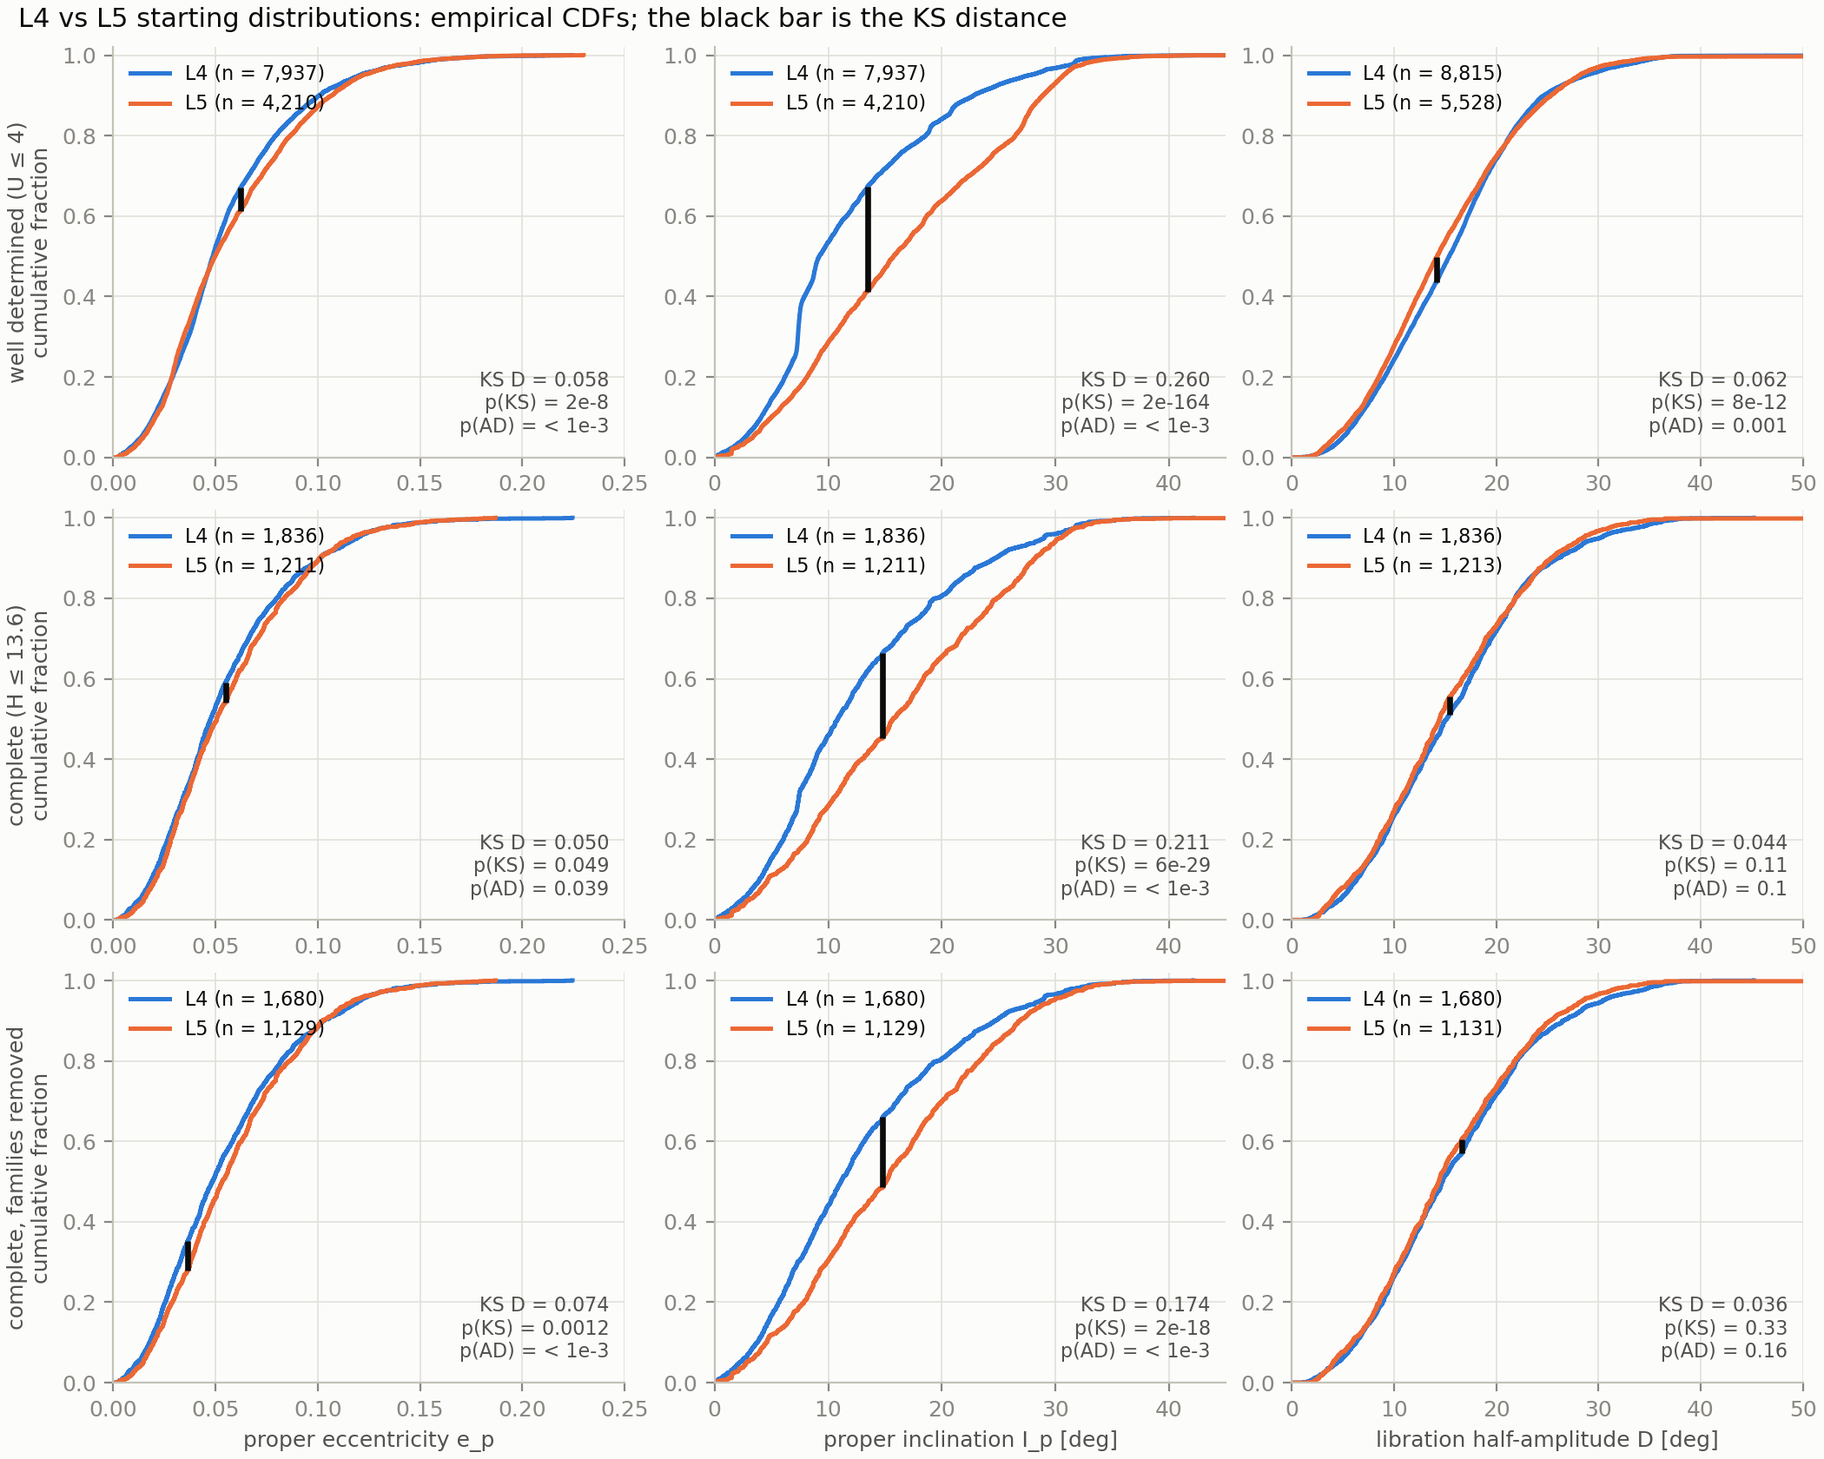
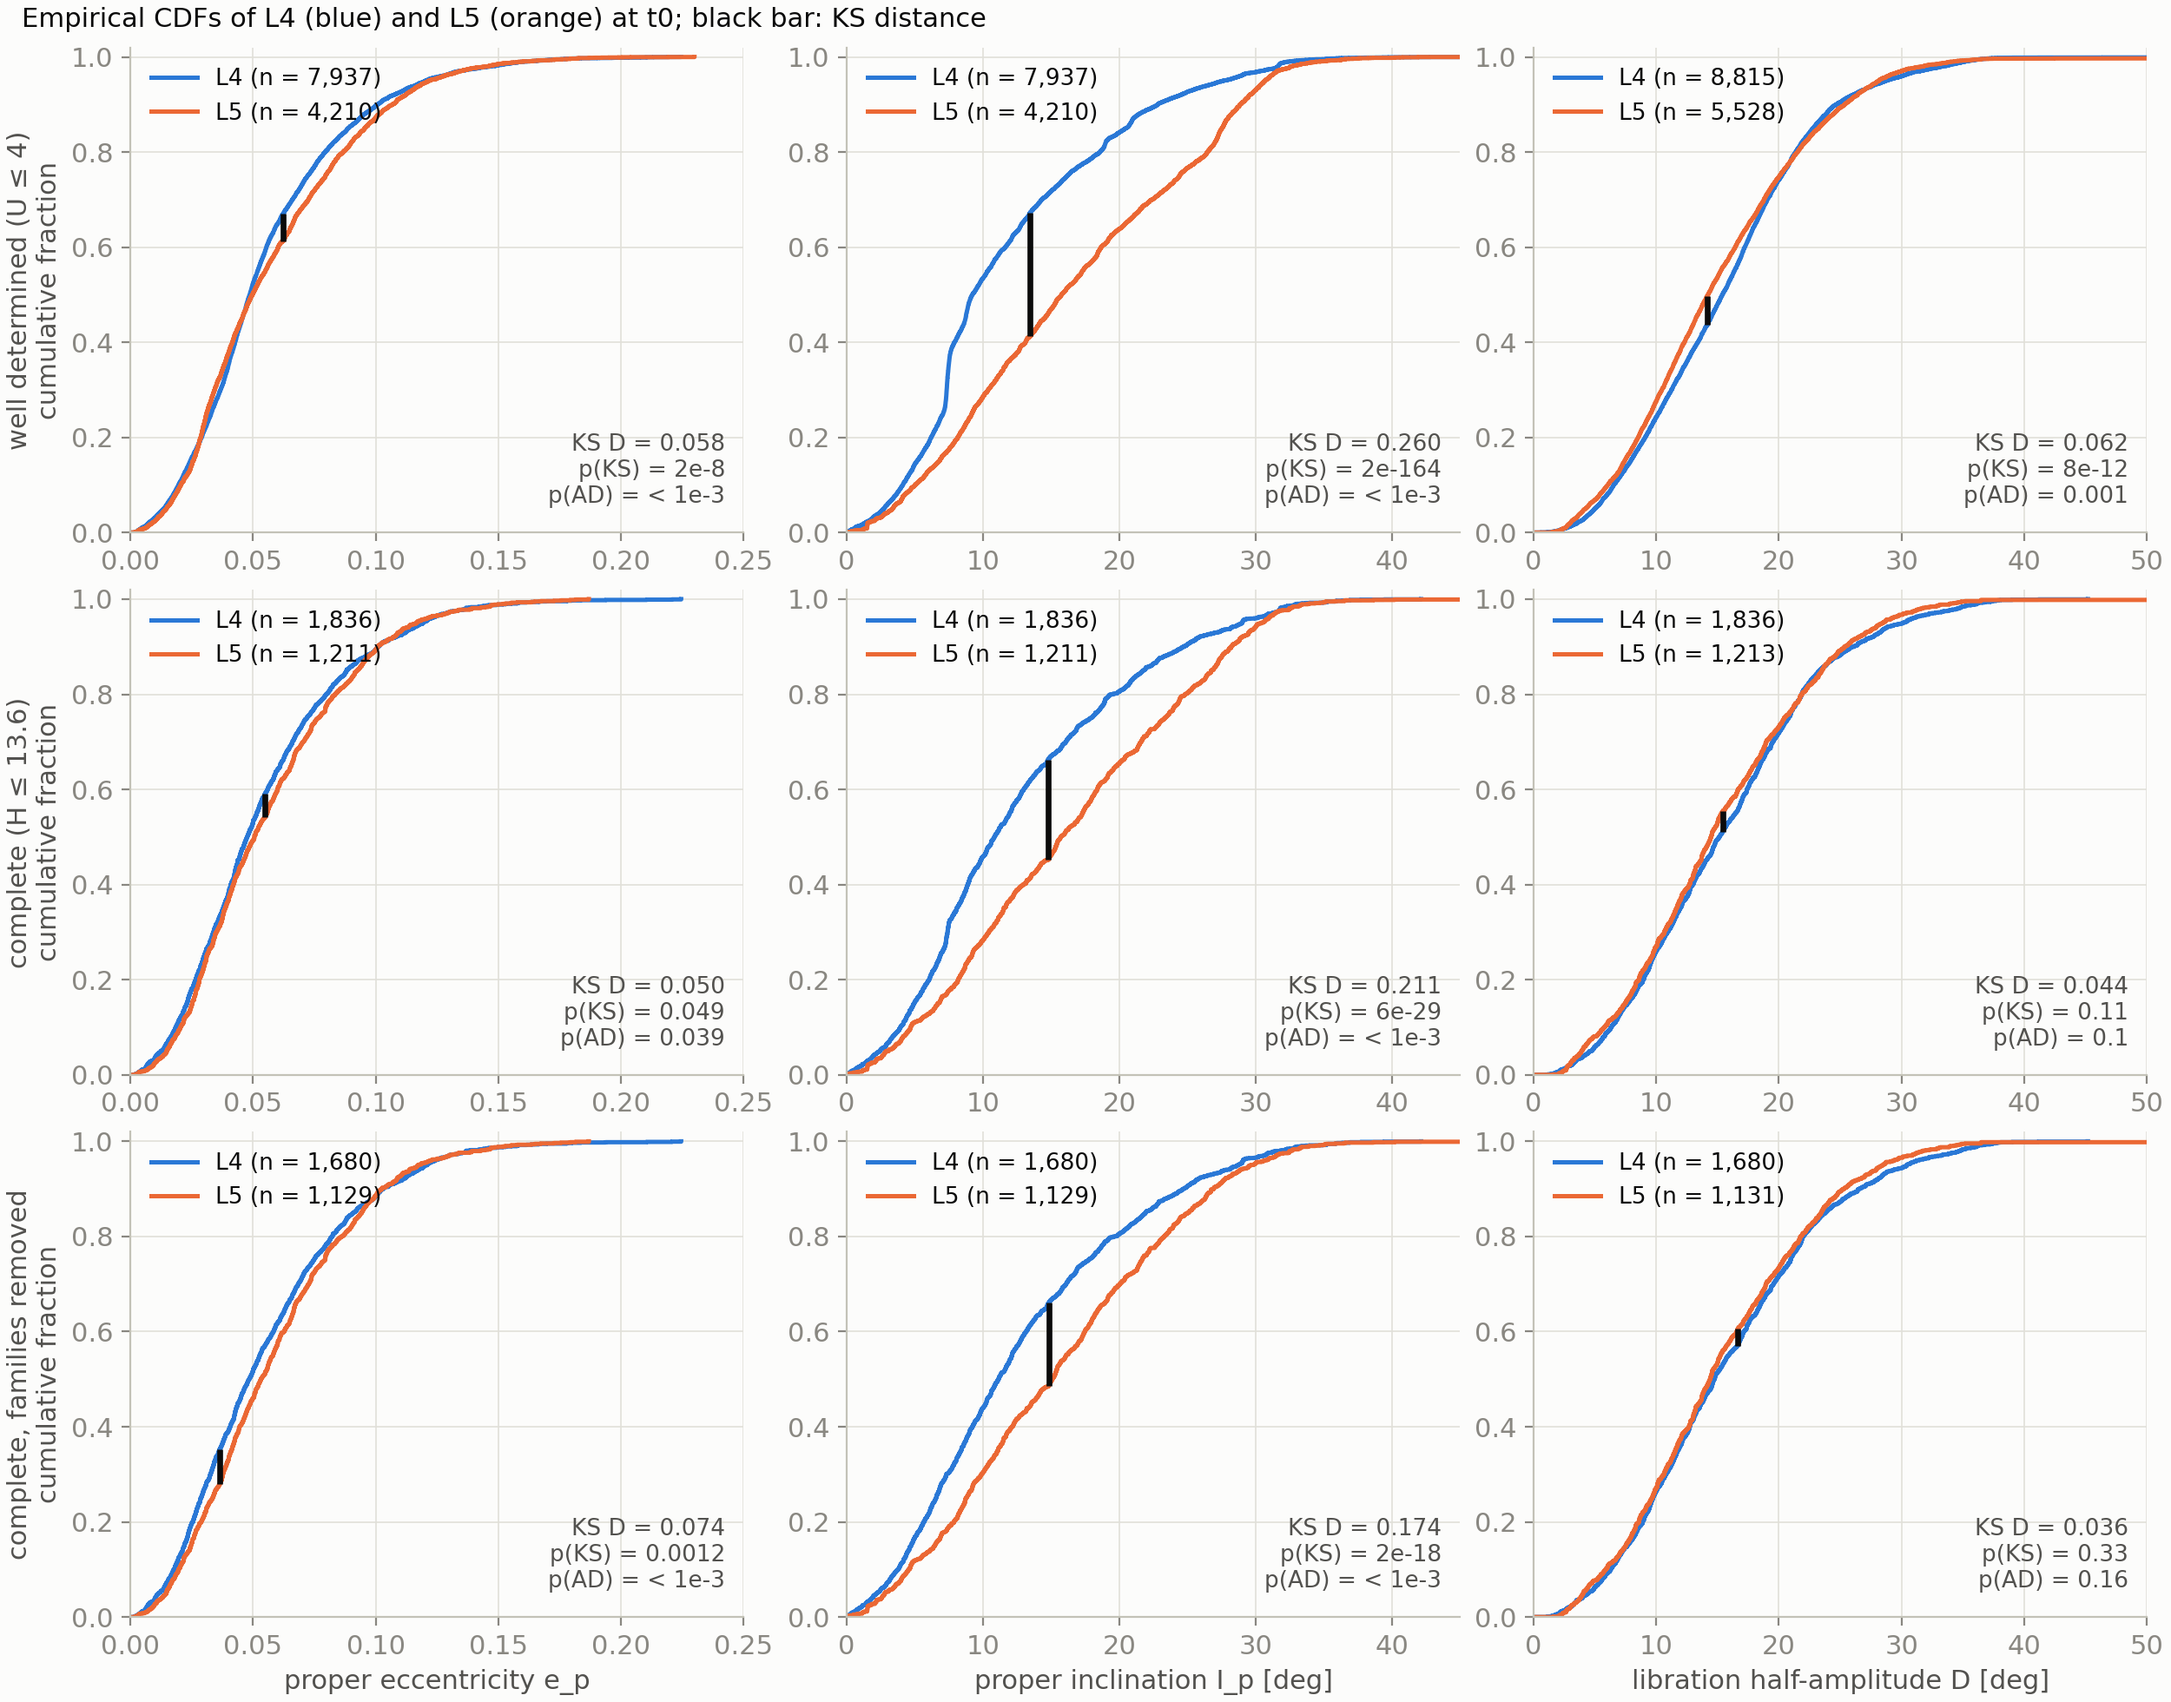
Enlarge figure text and use descriptive figure titles

diff --git a/campaign/scripts/s3_distributions.py b/campaign/scripts/s3_distributions.py
@@ -82,7 +82,7 @@ plt.rcParams.update({
     "xtick.color": MUTED, "ytick.color": MUTED, "text.color": TEXT,
     "axes.grid": True, "grid.color": GRID, "grid.linewidth": 0.6,
     "axes.spines.top": False, "axes.spines.right": False,
-    "font.size": 9, "axes.titlesize": 10, "legend.frameon": False,
+    "font.size": 11, "axes.titlesize": 12, "legend.frameon": False,
 })
 
 
@@ -148,7 +148,7 @@ def _p_text(p, floor=None):
 
 def fig_ecdf(t, ks, out):
     masks = sample_masks(t)
-    fig, axes = plt.subplots(len(masks), len(PANELS), figsize=(10.5, 8.4), constrained_layout=True)
+    fig, axes = plt.subplots(len(masks), len(PANELS), figsize=(12.5, 9.8), constrained_layout=True)
     for r, (name, mask) in enumerate(masks.items()):
         s = t[mask]
         for c, (var, label, xlim) in enumerate(PANELS):
@@ -166,15 +166,15 @@ def fig_ecdf(t, ks, out):
             ax.plot([at, at], [y4, y5], color=TEXT, lw=2.4, solid_capstyle="butt")
             ax.annotate(f"KS D = {row['ks_D']:.3f}\np(KS) = {_p_text(row['ks_p'])}\n"
                         f"p(AD) = {_p_text(row['ad_p'], floor=1 / (N_PERMUTATIONS + 1))}",
-                        (0.97, 0.05), xycoords="axes fraction", ha="right", va="bottom", fontsize=8, color=TEXT_2)
+                        (0.97, 0.05), xycoords="axes fraction", ha="right", va="bottom", fontsize=9.5, color=TEXT_2)
             ax.set_xlim(*xlim)
             ax.set_ylim(0, 1.02)
             if r == len(masks) - 1:
                 ax.set_xlabel(label)
             if c == 0:
                 ax.set_ylabel(f"{name}\ncumulative fraction")
-            ax.legend(loc="upper left", fontsize=8)
-    fig.suptitle("L4 vs L5 starting distributions: empirical CDFs; the black bar is the KS distance",
+            ax.legend(loc="upper left", fontsize=9.5)
+    fig.suptitle("Empirical CDFs of L4 (blue) and L5 (orange) at t0; black bar: KS distance",
                  x=0.01, ha="left", fontsize=11)
     fig.savefig(out / "fig_ecdf.png", dpi=200)
     plt.close(fig)
@@ -269,7 +269,7 @@ def fig_cold_l4(t, out):
     s = t[t["complete"] & ~t["family"] & ~t["v24_only"] & t["I_p"].notna()]
     fine = np.arange(0, 47.5, 2.5)
     coarse = np.array([0, 5, 10, 15, 20, 25, 30, 47.5])
-    fig, (top, bot) = plt.subplots(2, 1, figsize=(7.2, 5.4), sharex=True, height_ratios=[3, 2],
+    fig, (top, bot) = plt.subplots(2, 1, figsize=(9.6, 6.4), sharex=True, height_ratios=[3, 2],
                                    constrained_layout=True)
     h = {sw: np.histogram(s.loc[s["swarm"] == sw, "I_p"], fine)[0] for sw in SWARMS}
     top.fill_between(fine[:-1], h["L5"], np.maximum(h["L4"], h["L5"]), step="post", color=SWARM_COLOR["L4"],
@@ -278,7 +278,7 @@ def fig_cold_l4(t, out):
         top.step(fine[:-1], h[sw], where="post", color=SWARM_COLOR[sw], lw=2,
                  label=f"{sw} (n = {int((s['swarm'] == sw).sum()):,})")
     top.set_ylabel("objects per 2.5°")
-    top.set_title("Complete sample (H ≤ 13.6), families removed: where the extra L4 Trojans are", loc="left")
+    top.set_title("Proper inclination, complete sample (H ≤ 13.6), families removed", loc="left")
     top.legend(loc="upper right")
     top.set_ylim(bottom=0)
 
@@ -292,8 +292,8 @@ def fig_cold_l4(t, out):
     overall = (s["swarm"] == "L4").sum() / (s["swarm"] == "L5").sum()
     bot.axhline(overall, color=SWARM_COLOR["L4"], lw=1, ls=":")
     bot.annotate(f"all inclinations: {overall:.2f}", (46, overall), xytext=(0, 4), textcoords="offset points",
-                 ha="right", color=TEXT_2, fontsize=8)
-    bot.annotate("equal", (46, 1), xytext=(0, -11), textcoords="offset points", ha="right", color=MUTED, fontsize=8)
+                 ha="right", color=TEXT_2, fontsize=9.5)
+    bot.annotate("equal", (46, 1), xytext=(0, -11), textcoords="offset points", ha="right", color=MUTED, fontsize=9.5)
     bot.set_ylabel("N4 / N5")
     bot.set_xlabel("proper inclination I_p [deg] (V24)")
     bot.set_xlim(0, 47.5)
@@ -303,7 +303,7 @@ def fig_cold_l4(t, out):
 
 
 def fig_composition(comp, split, out):
-    fig, (ax, ax2) = plt.subplots(1, 2, figsize=(11, 3.2), width_ratios=[1.25, 1], constrained_layout=True)
+    fig, (ax, ax2) = plt.subplots(1, 2, figsize=(13, 4.4), width_ratios=[1.25, 1], constrained_layout=True)
     labels = ["observed"] + [f"expected from {s}" for s in comp["strata"]]
     y = np.arange(len(labels))[::-1]
     obs = comp.iloc[0]
@@ -315,11 +315,11 @@ def fig_composition(comp, split, out):
         ax.plot([l, h], [yi, yi], color=color, lw=1.6)
         ax.plot(v, yi, "o", ms=8, color=color, mfc=color if lab == "observed" else SURFACE, mew=1.6)
         ax.annotate(f"{v:.2f}", (h, yi), xytext=(6, 0), textcoords="offset points", va="center",
-                    color=TEXT_2, fontsize=8)
+                    color=TEXT_2, fontsize=9.5)
     ax.axvline(1, color=BASELINE, lw=1.2, ls="--")
     ax.set_yticks(y, labels)
-    ax.set_xlabel("escape ratio L5 / L4 over 10 Myr (well-determined sample; bar = 68% bootstrap interval)")
-    ax.set_title("How much of L5's extra escape is explained by where its members start?", loc="left")
+    ax.set_xlabel("escape ratio L5/L4 in 10 Myr (U ≤ 4; bar: 68% bootstrap interval)")
+    ax.set_title("(a) L5/L4 escape ratio, observed and expected", loc="left")
     ax.grid(axis="y", visible=False)
     ax.set_xlim(0, max(hi) * 1.15)
 
@@ -332,16 +332,16 @@ def fig_composition(comp, split, out):
             w = r["per_10k_of_swarm"]
             ax2.barh(yi, w, left=left, height=0.55, color=SWARM_COLOR[sw], alpha=alpha,
                      edgecolor=SURFACE, linewidth=2)
-            ax2.annotate(f"{r['k']} of {r['n']:,}", (left + w / 2, yi - 0.3), ha="center", va="top", fontsize=8,
+            ax2.annotate(f"{r['k']} of {r['n']:,}", (left + w / 2, yi - 0.3), ha="center", va="top", fontsize=9.5,
                          color=TEXT_2)
             left += w
         ax2.annotate(f"{left:.0f}", (left, yi), xytext=(5, 0), textcoords="offset points", va="center",
-                     color=TEXT_2, fontsize=8)
+                     color=TEXT_2, fontsize=9.5)
     ax2.set_yticks([1, 0], SWARMS)
     ax2.set_ylim(-0.75, 1.4)
     ax2.grid(axis="y", visible=False)
     ax2.set_xlabel("escapers per 10,000 members in 10 Myr")
-    ax2.set_title("dark = Trojan by all labels · light = V24 box only", loc="left")
+    ax2.set_title("(b) escapers per 10⁴ members", loc="left")
     fig.savefig(out / "fig_composition.png", dpi=200)
     plt.close(fig)
 

diff --git a/campaign/scripts/s3_uladder.py b/campaign/scripts/s3_uladder.py
@@ -50,7 +50,7 @@ plt.rcParams.update({
     "xtick.color": MUTED, "ytick.color": MUTED, "text.color": TEXT,
     "axes.grid": True, "grid.color": GRID, "grid.linewidth": 0.6,
     "axes.spines.top": False, "axes.spines.right": False,
-    "font.size": 9, "axes.titlesize": 10, "legend.frameon": False,
+    "font.size": 11, "axes.titlesize": 12, "legend.frameon": False,
 })
 
 
@@ -107,7 +107,7 @@ def ladder(ev) -> pd.DataFrame:
 def fig_grand(ev, t_end, out):
     sel = ev[ev["U"] <= 4]
     grid = np.logspace(0, np.log10(t_end), 600)
-    fig, (top, bot) = plt.subplots(2, 1, figsize=(7.2, 5.6), sharex=True, height_ratios=[3, 2],
+    fig, (top, bot) = plt.subplots(2, 1, figsize=(9.6, 6.4), sharex=True, height_ratios=[3, 2],
                                    constrained_layout=True)
     curves = {}
     for s in SWARMS:
@@ -127,7 +127,7 @@ def fig_grand(ev, t_end, out):
         top.annotate(s, (grid[-1], y), xytext=(5, dy), textcoords="offset points", va="center", color=TEXT_2,
                      fontsize=9)
     top.set_ylabel("escaped so far [% of swarm]")
-    top.set_title("Trojans by V24 and JPL/MPC, well-determined orbits (U ≤ 4): cumulative escapes", loc="left")
+    top.set_title("Trojans (V24 ∩ JPL or MPC), U ≤ 4: cumulative fraction escaped", loc="left")
     top.legend(loc="upper left")
     top.set_ylim(bottom=0)
 
@@ -140,23 +140,23 @@ def fig_grand(ev, t_end, out):
     bot.fill_between(grid, r - e, r + e, step="post", color=MUTED, alpha=0.2, lw=0)
     bot.step(grid, r, where="post", color=TEXT_2, lw=2)
     bot.axhline(1, color=BASELINE, lw=1.2, ls="--")
-    bot.annotate("no asymmetry", (grid[1], 1), xytext=(2, 3), textcoords="offset points", color=MUTED, fontsize=8)
+    bot.annotate("no asymmetry", (grid[1], 1), xytext=(2, 3), textcoords="offset points", color=MUTED, fontsize=9.5)
     bot.annotate(f"{r[-1]:.2f} ± {e[-1]:.2f} at {t_end / 1e6:.0f} Myr", (grid[-1], r[-1] + e[-1]), xytext=(-4, 6),
-                 textcoords="offset points", ha="right", color=TEXT_2, fontsize=8)
+                 textcoords="offset points", ha="right", color=TEXT_2, fontsize=9.5)
     bot.set_ylabel("escape ratio L5 / L4\n(fraction escaped)")
     bot.set_ylim(0, max(4, np.nanmax(r + e) * 1.05))
     bot.set_xscale("log")
     bot.set_xlim(grid[0], grid[-1])
-    bot.set_xlabel("time since today's orbits [yr]")
+    bot.set_xlabel("time since epoch t0 [yr]")
     bot.set_title(f"shown once both swarms have ≥ {MIN_ESCAPERS_FOR_RATIO} escapers; band = 1σ", loc="left",
-                  color=TEXT_2, fontsize=8)
+                  color=TEXT_2, fontsize=9.5)
     fig.savefig(out / "fig_grand.png", dpi=200)
     plt.close(fig)
     return {"L4": (int(k4[-1]), n4), "L5": (int(k5[-1]), n5), "ratio": (float(r[-1]), float(e[-1]))}
 
 
 def fig_uladder(lad, out):
-    fig, axes = plt.subplots(3, 1, figsize=(7.2, 8.2), sharex=True, height_ratios=[3, 2.4, 2],
+    fig, axes = plt.subplots(3, 1, figsize=(9.6, 9.8), sharex=True, height_ratios=[3, 2.4, 2],
                              constrained_layout=True)
     floor = 3e-5
     ax = axes[0]
@@ -172,10 +172,10 @@ def fig_uladder(lad, out):
     ax.set_yscale("log")
     ax.set_ylim(floor * 0.7, 1)
     ax.set_ylabel("fraction escaped\nin 10 Myr")
-    ax.set_title("(a) escape per U value, L4 + L5 pooled: where orbit error takes over", loc="left")
+    ax.set_title("(a) escape fraction per U value, L4 and L5 pooled", loc="left")
     ax.legend(loc="upper left")
     ax.annotate("▼ = no escaper; bar = 1σ upper limit", (0.99, 0.04), xycoords="axes fraction", ha="right",
-                color=MUTED, fontsize=8)
+                color=MUTED, fontsize=9.5)
 
     ax = axes[1]
     ok = lad["cum_ratio"].notna()
@@ -183,10 +183,10 @@ def fig_uladder(lad, out):
                 mec=SURFACE, mew=1, elinewidth=1.2, capsize=0)
     for u, r, n4, n5 in zip(lad["U"][ok], lad["cum_ratio"][ok], lad["cum_k_L4"][ok], lad["cum_k_L5"][ok]):
         ax.annotate(f"{n4}:{n5}", (u, r), xytext=(8, 0), textcoords="offset points", va="center",
-                    color=MUTED, fontsize=7)
+                    color=MUTED, fontsize=9)
     ax.axhline(1, color=BASELINE, lw=1.2, ls="--")
     ax.set_ylabel("escape ratio L5 / L4\nfor U ≤ k")
-    ax.set_title("(b) the asymmetry each cut U ≤ k would report (labels: L4:L5 escapers)", loc="left")
+    ax.set_title("(b) L5/L4 escape ratio for the cumulative cut U ≤ k (labels: escapers L4:L5)", loc="left")
 
     ax = axes[2]
     w = 0.36
@@ -194,13 +194,13 @@ def fig_uladder(lad, out):
         ax.bar(lad["U"] + dx, lad[f"n_{sw}"], width=w - 0.04, color=SWARM_COLOR[sw], label=sw)
     ax.set_yscale("log")
     ax.set_ylabel("objects")
-    ax.set_title("(c) how many objects have each U", loc="left")
+    ax.set_title("(c) number of objects per U value", loc="left")
     ax.legend(loc="upper right", ncol=2)
     ax.set_xticks(U_VALUES)
-    ax.set_xlabel("U (orbit uncertainty, 0 = best, 9 = worst)   ·   (b): the cut U ≤ k")
+    ax.set_xlabel("U (orbit-uncertainty parameter; 0 = best, 9 = worst); in (b), k")
     for a in axes:
         a.axvspan(4.5, 9.6, color=GRID, alpha=0.35, lw=0, zorder=0)
-    axes[0].annotate("excluded by the current cut", (4.6, 0.5), color=MUTED, fontsize=8, va="top")
+    axes[0].annotate("U > 4: excluded", (4.6, 0.5), color=MUTED, fontsize=9.5, va="top")
     fig.savefig(out / "fig_uladder.png", dpi=200)
     plt.close(fig)
 

diff --git a/campaign/scripts/s5_fates_report.py b/campaign/scripts/s5_fates_report.py
@@ -38,7 +38,7 @@ GROUPS = [("trojan", "L4"), ("trojan", "L5"), ("interloper", "L4"), ("interloper
 plt.rcParams.update({
     "figure.facecolor": SURFACE, "axes.facecolor": SURFACE, "savefig.facecolor": SURFACE,
     "axes.edgecolor": GRID, "axes.labelcolor": TEXT_2, "text.color": TEXT,
-    "xtick.color": MUTED, "ytick.color": MUTED, "font.size": 9, "legend.frameon": False,
+    "xtick.color": MUTED, "ytick.color": MUTED, "font.size": 11, "legend.frameon": False,
 })
 
 
@@ -56,7 +56,7 @@ def main() -> None:
         rows.append(("header", group, swarm, len(sel)))
         rows += [("object", f) for f in sel]
 
-    fig, ax = plt.subplots(figsize=(8.6, 0.17 * len(rows) + 1.6), constrained_layout=True)
+    fig, ax = plt.subplots(figsize=(11, 0.24 * len(rows) + 1.8), constrained_layout=True)
     y = 0
     yticks, ylabels = [], []
     for row in rows[::-1]:
@@ -64,7 +64,7 @@ def main() -> None:
             _, group, swarm, n = row
             label = f"{'Trojans' if group == 'trojan' else 'Interlopers'} escaped from {swarm} ({n})"
             ax.annotate(label, (X_MIN, y), xytext=(2, 0), textcoords="offset points", va="center",
-                        fontsize=8.5, color=SWARM_COLOR[swarm], fontweight="bold")
+                        fontsize=10, color=SWARM_COLOR[swarm], fontweight="bold")
             y += 1.6
             continue
         f = row[1]
@@ -86,7 +86,7 @@ def main() -> None:
     ax.set_xscale("log")
     ax.set_xlim(X_MIN, X_MAX)
     ax.set_ylim(-1, y - 1.0)
-    ax.set_yticks(yticks, ylabels, fontsize=6.5)
+    ax.set_yticks(yticks, ylabels, fontsize=8.5)
     ax.grid(axis="x", color=GRID, lw=0.6)
     ax.set_axisbelow(True)
     for side in ("top", "right", "left"):
@@ -100,7 +100,7 @@ def main() -> None:
                Patch(color=TEXT, label="co-orbital with Jupiter (recapture)"),
                Line2D([], [], marker="x", ls="none", color=TEXT_2, label="ejected (hyperbolic)"),
                Line2D([], [], marker="o", ls="none", color=TEXT_2, mfc="none", label="bound, past 1000 au")]
-    ax.legend(handles=handles, loc="lower center", bbox_to_anchor=(0.5, 1.0), ncol=4, fontsize=7.5,
+    ax.legend(handles=handles, loc="lower center", bbox_to_anchor=(0.5, 1.0), ncol=4, fontsize=9,
               handlelength=1.4, columnspacing=1.2)
     out = paths.report_dir(args.out_id)
     fig.savefig(out / "fig_fates.png", dpi=200)
